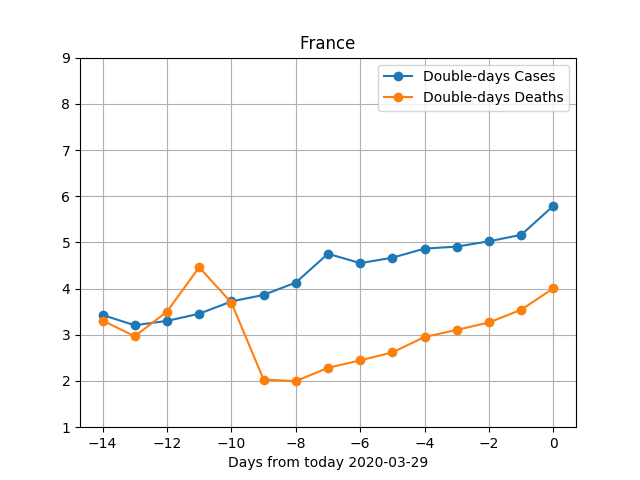
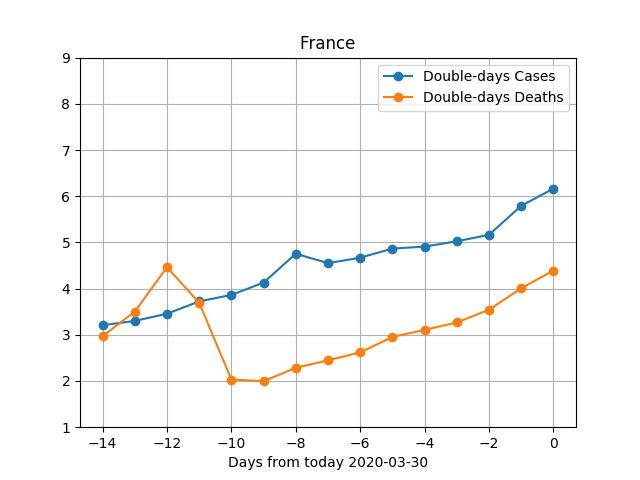
30 marzo

Changed region(s): [[0.1562, 0.375, 0.875, 0.7188], [0.3438, 0.5625, 0.875, 0.8125], [0.2188, 0.5938, 0.25, 0.625]]

diff --git a/scripts/my_analysis.py b/scripts/my_analysis.py
@@ -210,14 +210,14 @@ def new_cases(country1):
 if __name__ == "__main__":
 
 
-    # for country1 in ["Spain","Italy","France","US"]:
-    #     new_cases(country1)
+    for country1 in ["Spain","Italy","France","US"]:
+        new_cases(country1)
 
     for country1 in ["Spain","Italy","France","US"]:
         analyze_country(country1)
 
-    # italy_vs_spain()
-    #
-    # for country1 in ["Spain","Italy","France","US"]:
-    #     model_analysis(country1)
+    italy_vs_spain()
+
+    for country1 in ["Spain","Italy","France","US"]:
+        model_analysis(country1)
      
